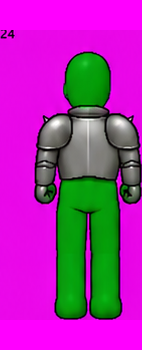
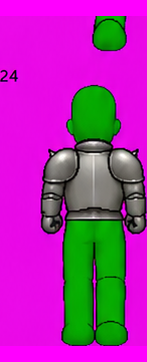
North idle: re-extract chest from clean torso (gauntlets were green-painted)
The previous torso separation had the gauntlets sprayed green, so they extracted
as thin/greenish. User reattached a clean (grey-gauntlet) separation; re-extract
-> full gauntlets, nothing stripped (head-stray 0, green 0). Pending review.
Bump 2.3.675.

diff --git a/src/rendering/gearSheets.js b/src/rendering/gearSheets.js
@@ -18,7 +18,7 @@ import { GEAR_SLOTS, getEquip } from './gearCatalog.js';
 
 const FRAME_W = 256;
 const FRAME_H = 256;
-const GEAR_VERSION = '2.3.674';
+const GEAR_VERSION = '2.3.675';
 
 /* `${slot}/${item}/${pose}/${dir}` -> [Texture] | 'loading' | [] (missing) */
 const _sheets = {};
